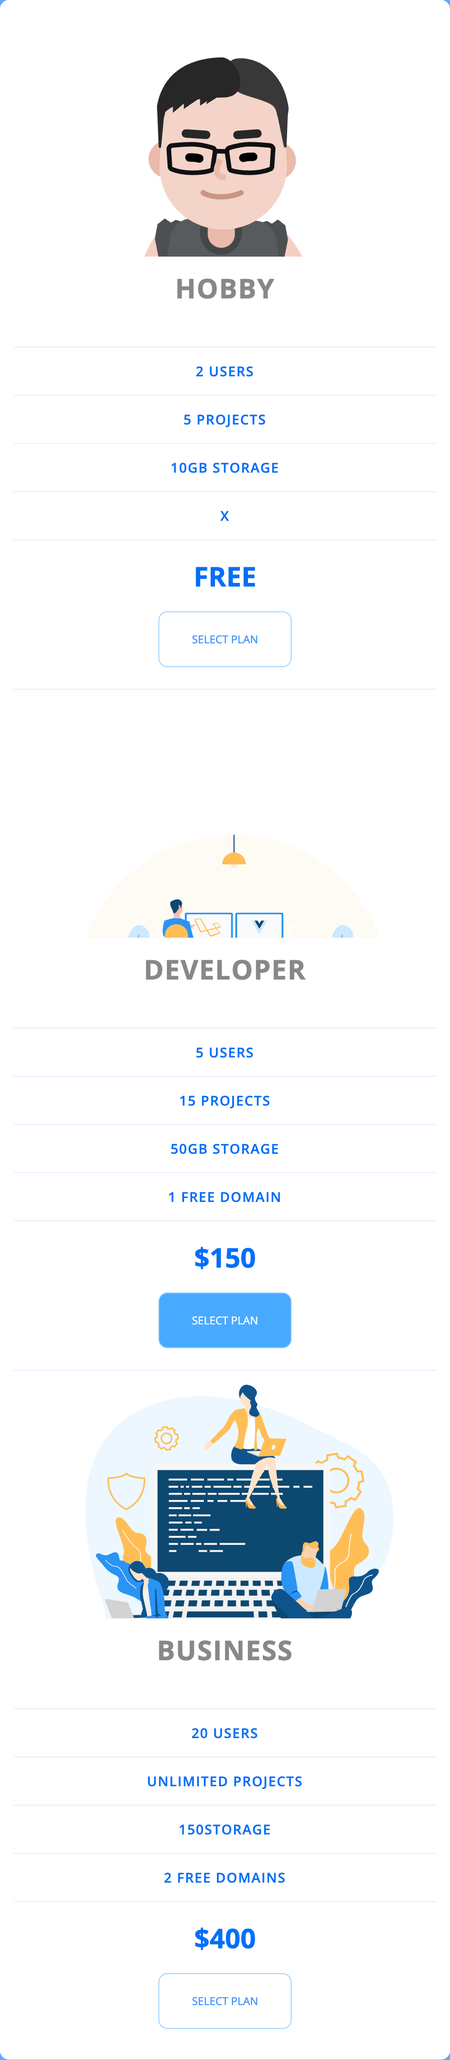
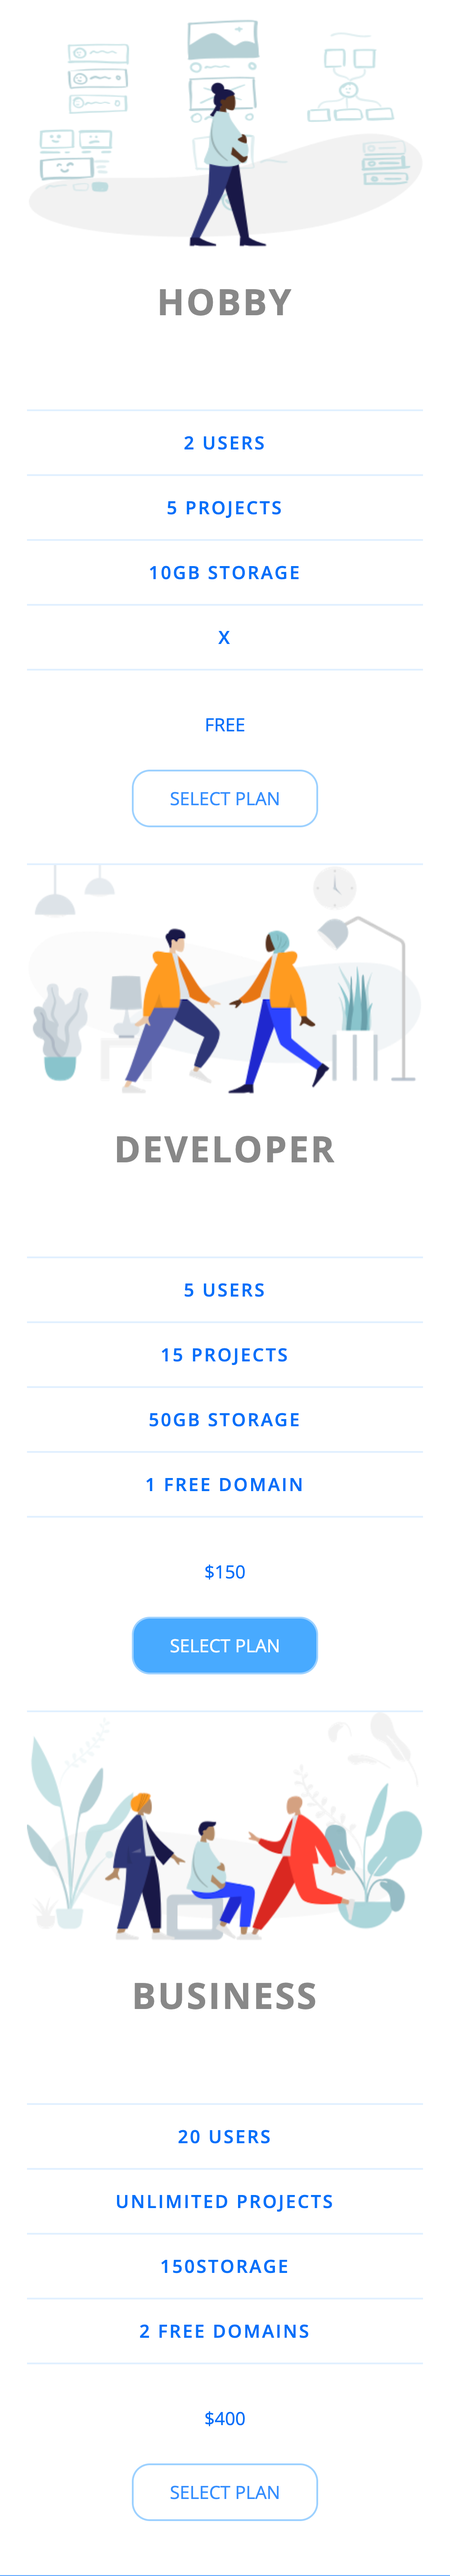
changed ex pricing panel

diff --git a/4. responsive pricing panel with reponsive fontsize/index.html b/4. responsive pricing panel with reponsive fontsize/index.html
@@ -15,7 +15,7 @@
 
         <div class="pricing-plan">
             <div class="pricing-img">
-                <img src="img/icon-1.svg" alt="">
+                <img src="img/icon1.png" alt="">
                </div>
             <h2 class="pricing-header">Hobby</h2>
             <ul class="pricing-features">
@@ -31,7 +31,7 @@
 
         <div class="pricing-plan">
             <div class="pricing-img">
-             <img src="img/icon-2.svg" alt="">
+             <img src="img/icon2.png" alt="">
             </div>
             <h2 class="pricing-header">Developer</h2>
             <ul class="pricing-features">
@@ -41,12 +41,12 @@
                 <li class="pricing-features-item">1 free domain</li>
             </ul>
             <span class="pricing-price">$150</span>
-            <a href="#/" class="pricing-button is-featured">Select Plan</a>
+            <a href="#" class="pricing-button is-featured">Select Plan</a>
         </div>
 
         <div class="pricing-plan">
             <div class="pricing-img">
-                <img src="img/icon-3.svg" alt="">
+                <img src="img/icon3.png" alt="">
             </div>
             <h2 class="pricing-header">Business</h2>
             <ul class="pricing-features">
